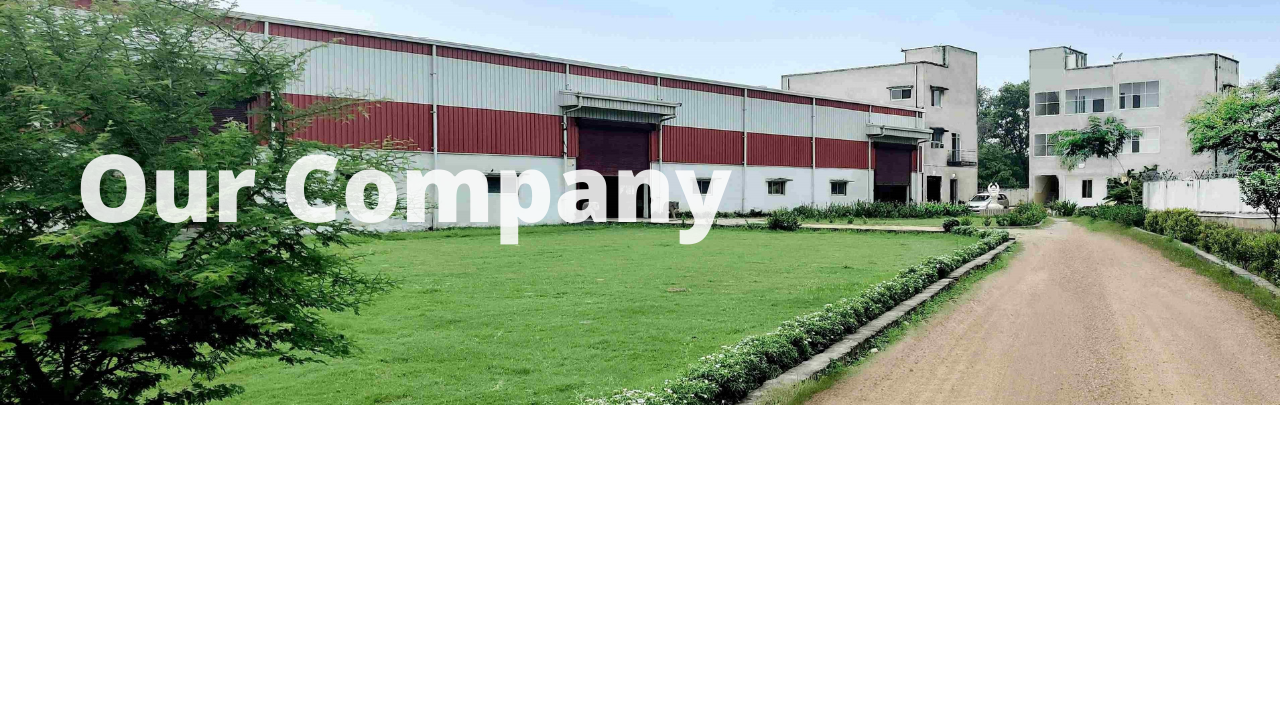
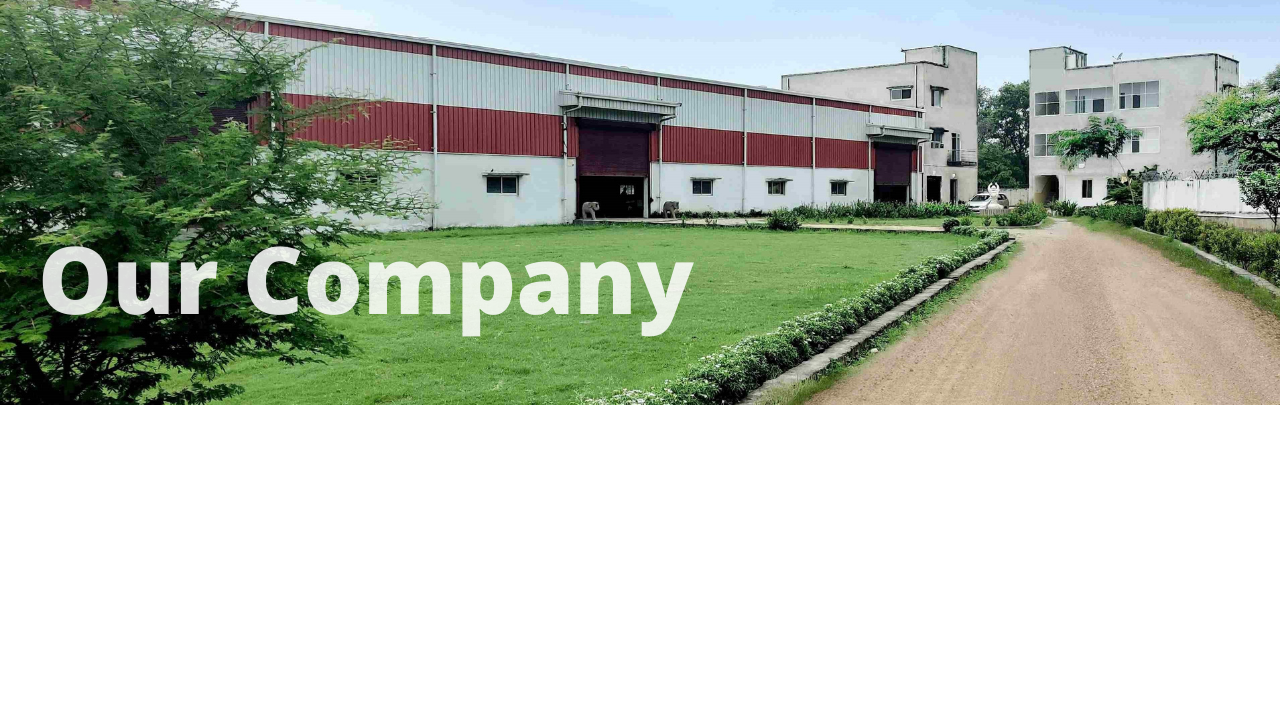
dropdown fixed and cover pages updated

Changed region(s): [[0.0312, 0.2139, 0.5938, 0.4889]]

diff --git a/product_css/style.css b/product_css/style.css
@@ -26,6 +26,48 @@ body {
   font-style: normal;
 }
 
+.dropdown-menu {
+  visibility: hidden;
+  filter: alpha(opacity=0);
+  opacity: 0;
+  transition: all .2s ease-in, visibility 0s linear .2s, -webkit-transform .2s linear;
+  transition: all .2s ease-in, visibility 0s linear .2s, transform .2s linear;
+  transition: all .2s ease-in, visibility 0s linear .2s, transform .2s linear, -webkit-transform .2s linear;
+  -webkit-transition: all .2s ease-in, visibility 0s linear .2s, -webkit-transform .2s linear;
+  -o-transition: all .2s ease-in, visibility 0s linear .2s, -o-transform .2s linear;
+  -ms-transition: all .2s ease-in, visibility 0s linear .2s, -ms-transform .2s linear;
+  width: 250px;
+  margin-top: 15px;
+  padding: 0px;
+  border-radius: 0px;
+  display: block;
+}
+
+.dropdown-toggle::after {
+  display: none;
+}
+
+.dropdown:hover .dropdown-menu {
+  visibility: visible;
+  transition: all .45s ease 0s;
+  opacity: 1;
+}
+
+.dropdown-item {
+  padding: .8rem 1.5rem;
+  text-transform: uppercase;
+  font-size: 14px;
+}
+
+.dropdown-item:hover {
+  background: #c42e36;
+  color: #fff;
+}
+
+ul.dropdown-menu li {
+  padding-left: 0px !important;
+}
+
 
 
 
@@ -5665,13 +5707,7 @@ span.ui-slider-handle.ui-corner-all.ui-state-default:focus {
 
 /*=================== contact banner start ====================*/
 /* line 3, ../../Arafath/CL/Cl November/223. Transportation/HTML/scss/_contact.scss */
-.dropdown .dropdown-menu {
-  -webkit-transition: all 0.3s;
-  -moz-transition: all 0.3s;
-  -ms-transition: all 0.3s;
-  -o-transition: all 0.3s;
-  transition: all 0.3s;
-}
+
 
 /* line 10, ../../Arafath/CL/Cl November/223. Transportation/HTML/scss/_contact.scss */
 .contact-info {

diff --git a/css/style.css b/css/style.css
@@ -8,6 +8,47 @@ body {
   color: #6c757d; 
 }
 
+.dropdown-menu {
+  visibility: hidden;
+  filter: alpha(opacity=0);
+  opacity: 0;
+  transition: all .2s ease-in, visibility 0s linear .2s, -webkit-transform .2s linear;
+  transition: all .2s ease-in, visibility 0s linear .2s, transform .2s linear;
+  transition: all .2s ease-in, visibility 0s linear .2s, transform .2s linear, -webkit-transform .2s linear;
+  -webkit-transition: all .2s ease-in, visibility 0s linear .2s, -webkit-transform .2s linear;
+  -o-transition: all .2s ease-in, visibility 0s linear .2s, -o-transform .2s linear;
+  -ms-transition: all .2s ease-in, visibility 0s linear .2s, -ms-transform .2s linear;
+  width: 250px;
+  margin-top: 15px;
+  padding: 0px;
+  border-radius: 0px;
+  display: block;
+}
+
+.dropdown-toggle::after {
+  display: none;
+}
+
+.dropdown:hover .dropdown-menu {
+  visibility: visible;
+  transition: all .45s ease 0s;
+  opacity: 1;
+}
+
+.dropdown-item {
+  padding: .8rem 1.5rem;
+  text-transform: uppercase;
+  font-size: 14px;
+}
+
+.dropdown-item:hover {
+  background: #c42e36;
+  color: #fff;
+}
+
+ul.dropdown-menu li {
+  padding-left: 0px !important;
+}
 /*Contact Us CSS*/
 .map-section {
     position: relative;
@@ -573,12 +614,7 @@ nav .searchbar input[type="text"].active {
   transition: none;
 }
 
-.nav-bar .dropdown-menu {
-  margin-top: 0;
-  border: 0;
-  border-radius: 0;
-  background: #f8f9fa;
-}
+
 
 .nav-bar .btn {
   color: #ffffff;

diff --git a/industrial-radiators.html b/industrial-radiators.html
@@ -72,6 +72,49 @@
           cursor: pointer;
         }
 
+        .dropdown-menu {
+  visibility: hidden;
+  filter: alpha(opacity=0);
+  opacity: 0;
+  transition: all .2s ease-in, visibility 0s linear .2s, -webkit-transform .2s linear;
+  transition: all .2s ease-in, visibility 0s linear .2s, transform .2s linear;
+  transition: all .2s ease-in, visibility 0s linear .2s, transform .2s linear, -webkit-transform .2s linear;
+  -webkit-transition: all .2s ease-in, visibility 0s linear .2s, -webkit-transform .2s linear;
+  -o-transition: all .2s ease-in, visibility 0s linear .2s, -o-transform .2s linear;
+  -ms-transition: all .2s ease-in, visibility 0s linear .2s, -ms-transform .2s linear;
+  width: 250px;
+  margin-top: 15px;
+  padding: 0px;
+  border-radius: 0px;
+  display: block;
+}
+
+.dropdown-toggle::after {
+  display: none;
+}
+
+.dropdown:hover .dropdown-menu {
+  visibility: visible;
+  transition: all .45s ease 0s;
+  opacity: 1;
+}
+
+.dropdown-item {
+  padding: .8rem 1.5rem;
+  text-transform: uppercase;
+  font-size: 14px;
+}
+
+.dropdown-item:hover {
+  background: #c42e36;
+  color: #fff;
+}
+
+ul.dropdown-menu li {
+  padding-left: 0px !important;
+}
+
+
         
       </style>
 

diff --git a/products.html b/products.html
@@ -193,9 +193,9 @@ background: linear-gradient(
     rgba(0, 0, 0, 0.3),
     rgba(0, 0, 0, 0.3)
   ),
-  url(img/products-page-cover.png);
+  url(img/prod.png);
 background-size: cover;
-height: 350px;
+height: 500px;
 ">
 <div class="container">
 <div class="row">

diff --git a/company.html b/company.html
@@ -194,7 +194,7 @@
 background: 
   url(img/company-page-cover.png);
 background-size: cover;
-height: 350px;
+height: 500px;
 ">
 <div class="container">
 <div class="row">

diff --git a/expertise.html b/expertise.html
@@ -183,7 +183,7 @@
     ),
     url(img/manuhead.jpg);
   background-size: cover;
-  height: 350px;
+  height: 500px;
   ">
   <div class="container">
   <div class="row">

diff --git a/people.html b/people.html
@@ -195,7 +195,7 @@
     ),
     url(img/people.jpg);
   background-size: cover;
-  height: 350px;
+  height: 500px;
   ">
   <div class="container">
   <div class="row">
